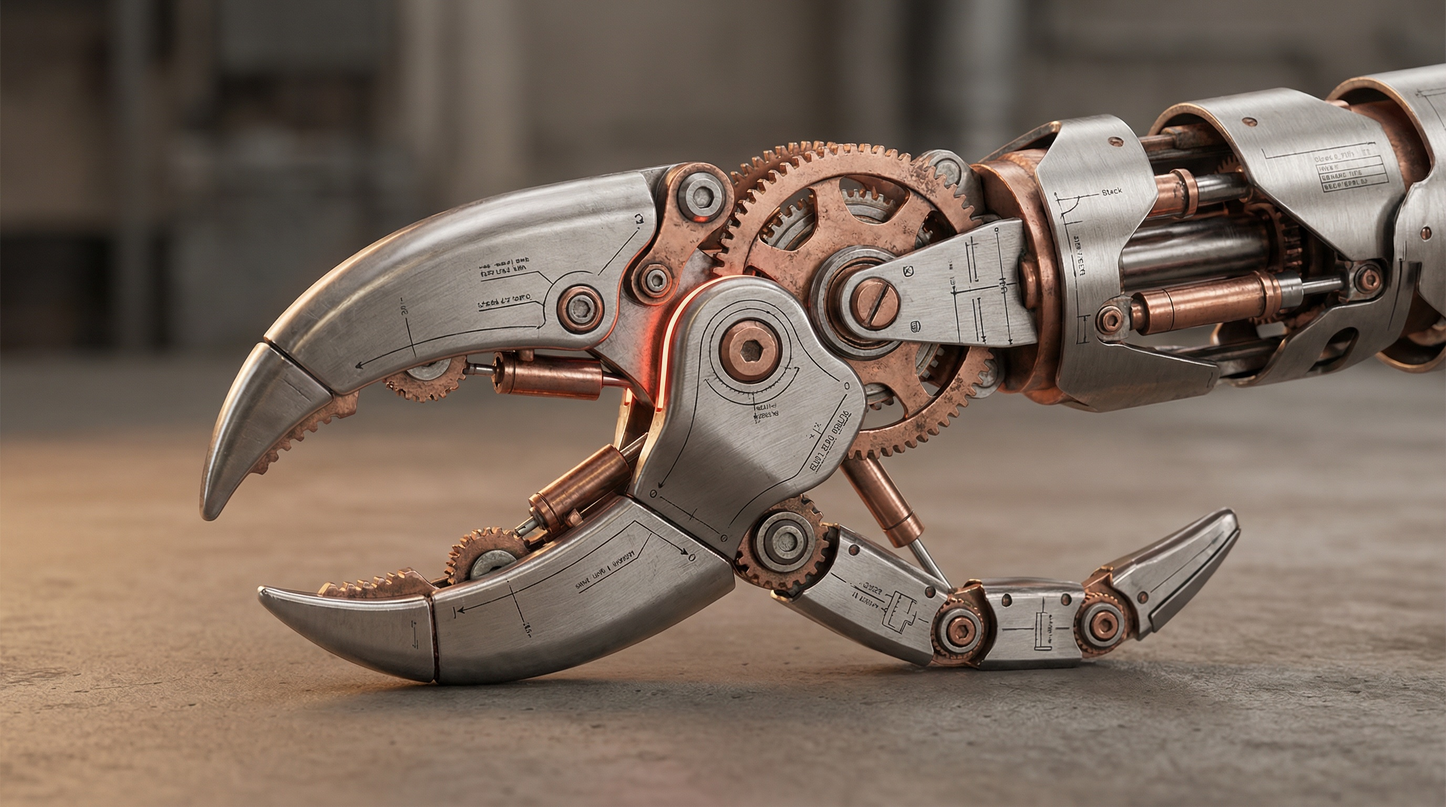
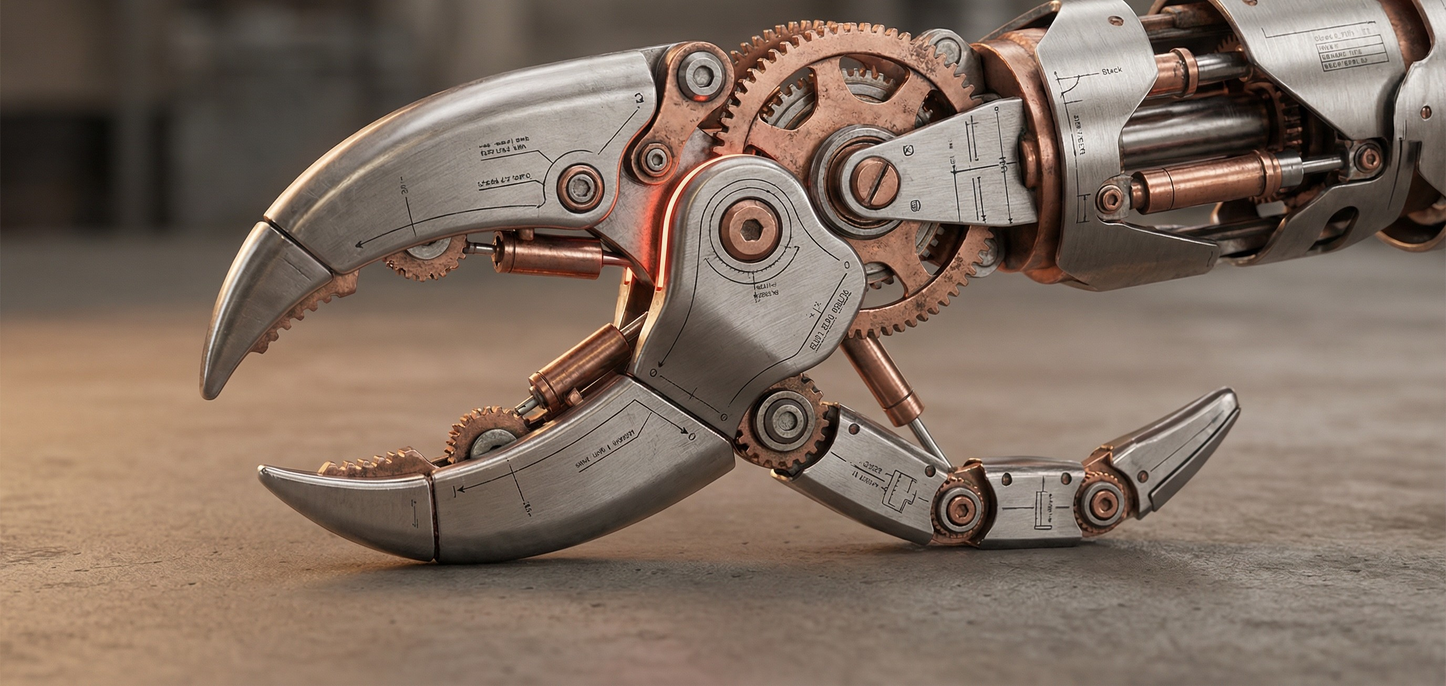
Cloud lunar mountain (#25)
* Remove certs from repo, move to gitignored TESTING.md

Origin cert PEM contents are now embedded in the local-only
TESTING.md runbook instead of checked into the repo.

* wip

* wip

* wip

* wip

* wip

* wip

---------

diff --git a/web/src/App.tsx b/web/src/App.tsx
@@ -387,15 +387,15 @@ function Hero() {
         </div>
 
         {/* Right side — Image */}
-        <div className="lg:col-span-5" style={staggerX(400)}>
+        <div className="lg:col-span-5 lg:self-start lg:pt-36" style={staggerX(400)}>
           <div className="relative border border-[#D4D4D8] p-4">
             <img
               src={`${import.meta.env.BASE_URL}images/hero-claw.jpg`}
               alt="Mechanical lobster claw — brushed steel and copper"
-              className="w-full aspect-[16/10] object-cover grayscale"
+              className="w-full aspect-[15/10] object-cover grayscale"
             />
             {/* Glassmorphism status card */}
-            <div className="absolute bottom-7 left-7 right-7 bg-dark/50 backdrop-blur-2xl border border-white/10 p-5">
+            <div className="absolute bottom-7 left-7 right-7 bg-dark/30 backdrop-blur-xl border border-white/10 p-5 opacity-90">
               <div className="flex items-center justify-between mb-4">
                 <span className="text-[10px] font-bold uppercase tracking-[0.3em] text-warm/50">
                   System Status
@@ -565,7 +565,7 @@ function FeatureRow({ feature, index }: { feature: Feature; index: number }) {
         className="absolute right-0 top-0 h-full w-1/2 overflow-hidden"
         style={{
           clipPath: hovered ? "inset(0 0 0 0)" : "inset(0 0 0 100%)",
-          transition: `clip-path 0.6s ${EXPO}`,
+          transition: `clip-path 0.15s ${EXPO}`,
         }}
       >
         <img

diff --git a/README.md b/README.md
@@ -2,6 +2,8 @@
 
 # lobsterd
 
+[**tsconfigdotjson.github.io/lobsterd**](https://tsconfigdotjson.github.io/lobsterd/)
+
 Firecracker MicroVM Tenant Orchestrator. Spawns lightweight VMs with isolated
 networking, per-tenant overlay filesystems, and an OpenClaw gateway in each guest.
 
